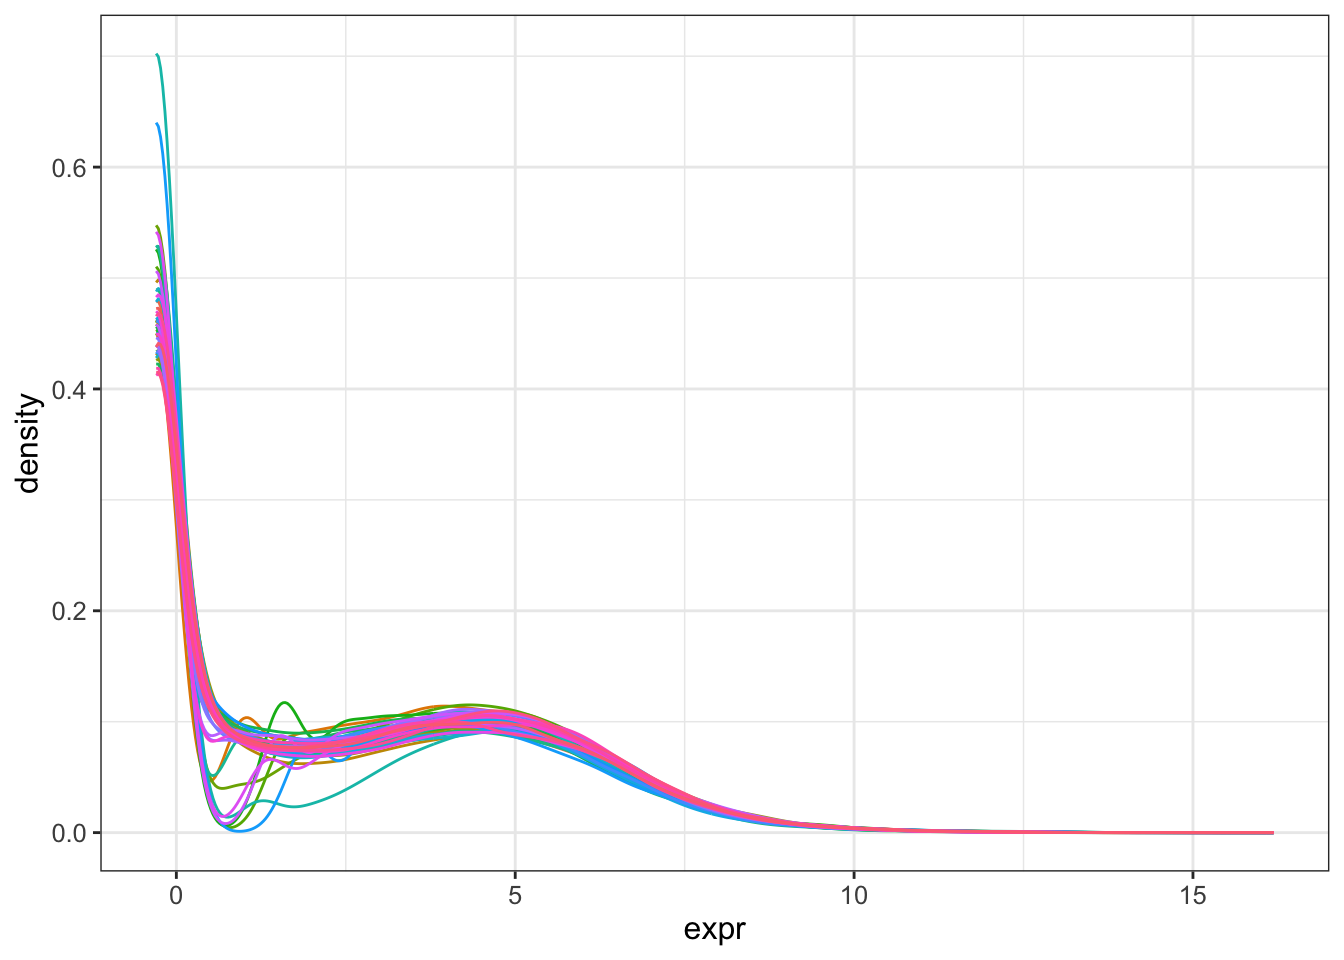
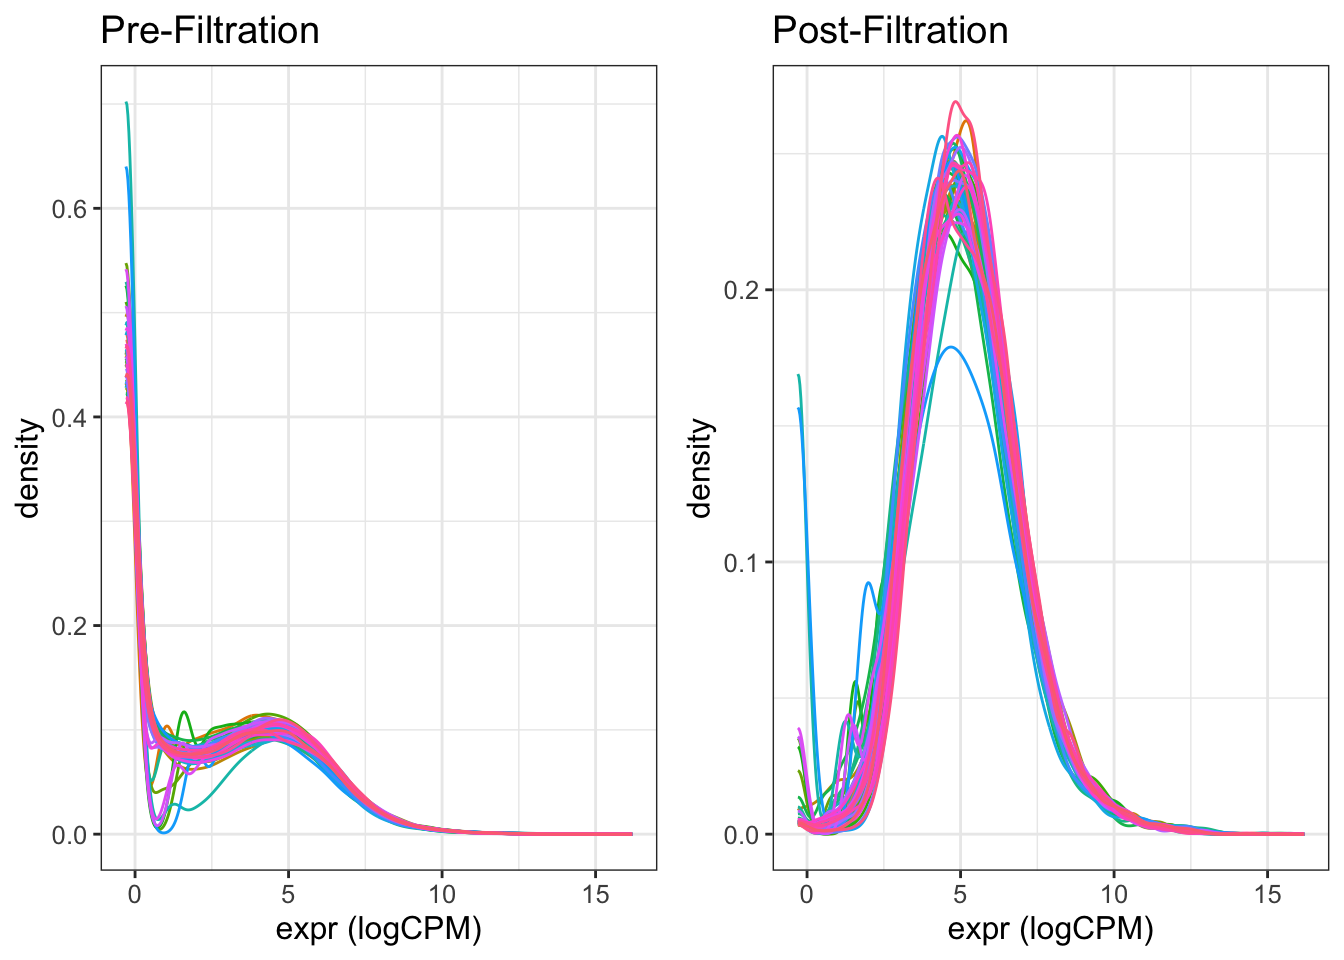
Build site.

diff --git a/docs/NK_Scoring.html b/docs/NK_Scoring.html
@@ -521,15 +521,15 @@ project makes it easier to run your code on other machines.</p>
 <div class="panel panel-default">
 <div class="panel-heading">
 <p class="panel-title">
-<a data-toggle="collapse" data-parent="#workflowr-checks" href="#strongRepositoryversionstrongahrefhttpsgithubcomrobinawagnerNKCRLMtree682108ffc308abd33335ad0cb0bbb4813cb5f7eftargetblank682108fa">
+<a data-toggle="collapse" data-parent="#workflowr-checks" href="#strongRepositoryversionstrongahrefhttpsgithubcomrobinawagnerNKCRLMtreee4911274b366d9575f06b97106970ccb228d1451targetblanke491127a">
 <span class="glyphicon glyphicon-ok text-success"
 aria-hidden="true"></span> <strong>Repository version:</strong>
-<a href="https://github.com/robin-a-wagner/NK_CRLM/tree/682108ffc308abd33335ad0cb0bbb4813cb5f7ef" target="_blank">682108f</a>
+<a href="https://github.com/robin-a-wagner/NK_CRLM/tree/e4911274b366d9575f06b97106970ccb228d1451" target="_blank">e491127</a>
 </a>
 </p>
 </div>
 <div
[2 lines of base64/hex data omitted]
 class="panel-collapse collapse">
 <div class="panel-body">
 <p>
@@ -539,7 +539,7 @@ reproducibility.
 </p>
 <p>
 The results in this page were generated with repository version
-<a href="https://github.com/robin-a-wagner/NK_CRLM/tree/682108ffc308abd33335ad0cb0bbb4813cb5f7ef" target="_blank">682108f</a>.
+<a href="https://github.com/robin-a-wagner/NK_CRLM/tree/e4911274b366d9575f06b97106970ccb228d1451" target="_blank">e491127</a>.
 See the <em>Past versions</em> tab to see a history of the changes made
 to the R Markdown and HTML files.
 </p>
@@ -615,6 +615,40 @@ Message
 </tr>
 </thead>
 <tbody>
+<tr>
+<td>
+Rmd
+</td>
+<td>
+<a href="https://github.com/robin-a-wagner/NK_CRLM/blob/e4911274b366d9575f06b97106970ccb228d1451/analysis/NK_Scoring.Rmd" target="_blank">e491127</a>
+</td>
+<td>
+Robin Wagner (UoM Laptop)
+</td>
+<td>
+2023-08-28
+</td>
+<td>
+added plots to visualise effect of TMM normalisation
+</td>
+</tr>
+<tr>
+<td>
+html
+</td>
+<td>
+<a href="https://rawcdn.githack.com/robin-a-wagner/NK_CRLM/5f49352a7fb4bb23727f198f68c0e3ef3528cf76/docs/NK_Scoring.html" target="_blank">5f49352</a>
+</td>
+<td>
+Robin Wagner (UoM Laptop)
+</td>
+<td>
+2023-08-28
+</td>
+<td>
+Build site.
+</td>
+</tr>
 <tr>
 <td>
 Rmd
@@ -1011,12 +1045,6 @@ lcpm &lt;- lcpm %&gt;%
 4     79501 JV388_LT -0.2978505
 5    729737 JV388_LT -0.2978505
 6 100507658 JV388_LT -0.2978505</code></pre>
-<pre class="r"><code>ggplot(lcpm, aes(x = expr, color = sample)) + 
-  geom_density() +
-  guides(color = &quot;none&quot;) +
-  theme_bw() +
-  theme(text = element_text(size = 12))</code></pre>
-<p><img src="figure/NK_Scoring.Rmd/unnamed-chunk-7-1.png" width="672" style="display: block; margin: auto;" /></p>
 <pre class="r"><code>lcpm_filt &lt;- lcpm_filt %&gt;%
   mutate(gene = rownames(lcpm_filt)) %&gt;%
   tidyr::gather(key = sample, value = expr, -gene); head(lcpm_filt)</code></pre>
@@ -1032,19 +1060,94 @@ lcpm &lt;- lcpm %&gt;%
   guides(color = &quot;none&quot;) +
   theme_bw() +
   theme(text = element_text(size = 12)) +
-  ggtitle(&quot;Pre-Filtration&quot;)
+  ggtitle(&quot;Pre-Filtration&quot;) +
+  labs(x = &quot;expr (logCPM)&quot;)
 
 lcpm_filt_plot &lt;- ggplot(lcpm_filt, aes(x = expr, color = sample)) + 
   geom_density() +
   guides(color = &quot;none&quot;) +
   theme_bw() +
   theme(text = element_text(size = 12)) +
-  ggtitle(&quot;Post-Filtration&quot;)
+  ggtitle(&quot;Post-Filtration&quot;) +
+  labs(x = &quot;expr (logCPM)&quot;)
 
 ggarrange(lcpm_plot, lcpm_filt_plot)</code></pre>
-<p><img src="figure/NK_Scoring.Rmd/unnamed-chunk-7-2.png" width="672" style="display: block; margin: auto;" /></p>
+<p><img src="figure/NK_Scoring.Rmd/unnamed-chunk-7-1.png" width="672" style="display: block; margin: auto;" /></p>
+<p>
+<button type="button" class="btn btn-default btn-xs btn-workflowr btn-workflowr-fig" data-toggle="collapse" data-target="#fig-unnamed-chunk-7-1">
+Past versions of unnamed-chunk-7-1.png
+</button>
+</p>
+<div id="fig-unnamed-chunk-7-1" class="collapse">
+<div class="table-responsive">
+<table class="table table-condensed table-hover">
+<thead>
+<tr>
+<th>
+Version
+</th>
+<th>
+Author
+</th>
+<th>
+Date
+</th>
+</tr>
+</thead>
+<tbody>
+<tr>
+<td>
+<a href="https://github.com/robin-a-wagner/NK_CRLM/blob/5f49352a7fb4bb23727f198f68c0e3ef3528cf76/docs/figure/NK_Scoring.Rmd/unnamed-chunk-7-1.png" target="_blank">5f49352</a>
+</td>
+<td>
+Robin Wagner (UoM Laptop)
+</td>
+<td>
+2023-08-28
+</td>
+</tr>
+</tbody>
+</table>
+</div>
+</div>
 <p>Normalise for library size.</p>
 <pre class="r"><code>expr_norm &lt;- calcNormFactors(expr_filt, method = &quot;TMM&quot;)</code></pre>
+<p>Visualise effect of library normalisation.</p>
+<pre class="r"><code>lcpm_norm &lt;- data.frame(edgeR::cpm(expr_norm, log = T))
+lcpm_norm &lt;- lcpm_norm %&gt;%
+  mutate(gene = rownames(lcpm_norm)) %&gt;%
+  tidyr::gather(key = sample, 
+         value = expr, 
+         -gene); head(lcpm_norm)</code></pre>
+<pre><code>       gene   sample      expr
+1    653635 JV388_LT  5.510940
+2 100132287 JV388_LT  3.869794
+3 100131754 JV388_LT 12.334596
+4 100133331 JV388_LT  3.048566
+5     26155 JV388_LT  3.231687
+6    339451 JV388_LT  1.774666</code></pre>
+<pre class="r"><code>lcpm_filt_boxplot &lt;- ggplot(lcpm_filt, aes(x = sample, y = expr, fill = sample)) + 
+  geom_boxplot() +
+  guides(fill = &quot;none&quot;) +
+  theme_bw() +
+  theme(text = element_text(size = 12),
+        axis.text.x = element_blank(),
+        axis.ticks.x = element_blank()) + 
+  ggtitle(&quot;Pre-TMM Normalisation&quot;) +
+  labs(x = &quot;expr (logCPM)&quot;)
+
+lcpm_norm_boxplot &lt;- ggplot(lcpm_norm, aes(x = sample, y = expr, fill = sample)) + 
+  geom_boxplot() +
+  guides(fill = &quot;none&quot;) +
+  theme_bw() +
+  theme(text = element_text(size = 12),
+        axis.text.x = element_blank(),
+        axis.ticks.x = element_blank()) + 
+  ggtitle(&quot;Post-TMM Normalisation&quot;) +
+  labs(x = &quot;expr (logCPM)&quot;)
+
+ggarrange(lcpm_filt_boxplot, lcpm_norm_boxplot)</code></pre>
+<p><img src="figure/NK_Scoring.Rmd/unnamed-chunk-9-1.png" width="672" style="display: block; margin: auto;" /></p>
 </div>
 <div id="perform-nk-scoring" class="section level3">
 <h3>Perform NK scoring</h3>
@@ -1077,7 +1180,7 @@ scoring with singscore.</p>
   scale_fill_manual(values = brewer.pal(3, &quot;Paired&quot;)) + 
   labs(x = &quot;&quot;) +
   theme(text = element_text(size = 15))</code></pre>
-<p><img src="figure/NK_Scoring.Rmd/unnamed-chunk-12-1.png" width="576" style="display: block; margin: auto;" /></p>
+<p><img src="figure/NK_Scoring.Rmd/unnamed-chunk-13-1.png" width="576" style="display: block; margin: auto;" /></p>
 <br>
 <p>
 <button type="button" class="btn btn-default btn-workflowr btn-workflowr-sessioninfo" data-toggle="collapse" data-target="#workflowr-sessioninfo" style="display: block;">
